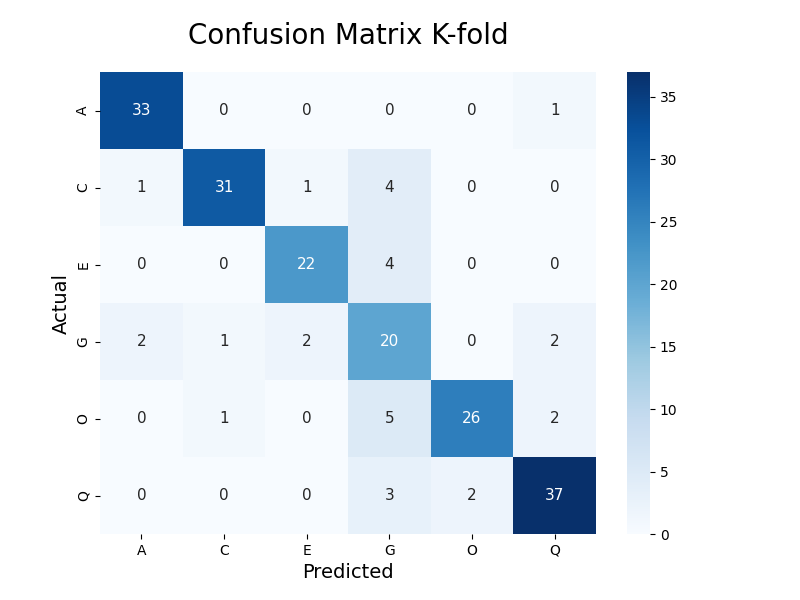
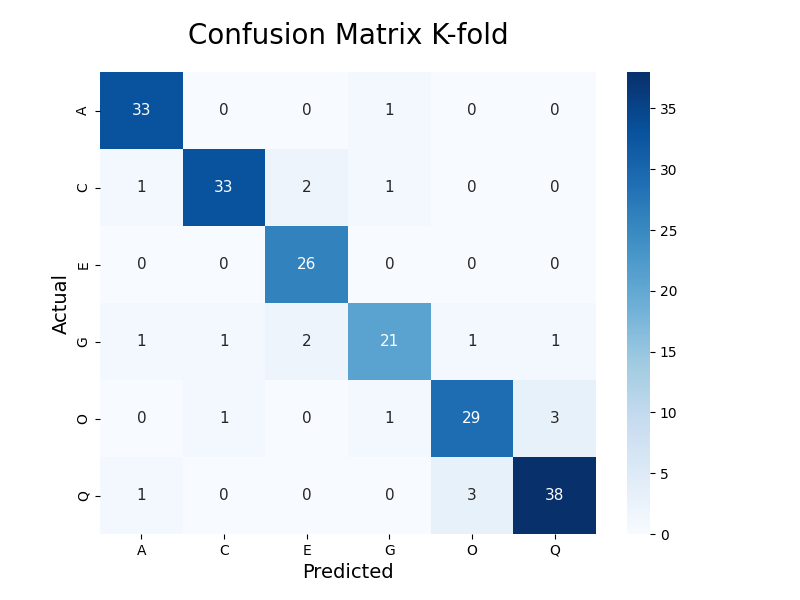
Fixed improvement.py

diff --git a/improvement.py b/improvement.py
@@ -79,6 +79,8 @@ def grid_search(x, y, n_folds=10, random_generator=np.random.default_rng(42)):
         for i, (train_indices, val_indices, test_indices) in enumerate(
                 train_val_test_k_fold(len(x), n_folds, random_generator)):
 
+            fold_accuracies = []
+
             # Set up the dataset for the current fold
             x_train = x[train_indices, :]
             y_train = y[train_indices]
@@ -97,7 +99,18 @@ def grid_search(x, y, n_folds=10, random_generator=np.random.default_rng(42)):
             current_accuracy = np.mean(predictions == y_val)
 
             # Store the current accuracy along with the parameter combination
-            gridsearch_accuracies.append((current_accuracy, combination, decision_tree_classifier))
+            fold_accuracies.append((current_accuracy, combination, decision_tree_classifier))
+
+            # Select the classifier with the highest accuracy
+            # NB: key=lambda x:x[0] sorts the list by the first tuple element (the accuracy)
+            (best_accuracy, best_combination, best_classifier) = max(fold_accuracies,
+                                                                     key=lambda param: param[0])
+
+            # Evaluate the best model for this set of folds on the test fold
+            predictions_on_test = decision_tree_classifier.predict(x_test)
+            best_accuracy = np.mean(predictions_on_test == y_test)
+
+            gridsearch_accuracies.append((best_accuracy, best_combination, best_classifier))
 
     # Select the classifier with the highest accuracy
     # NB: key=lambda x:x[0] sorts the list by the first tuple element (the accuracy)
